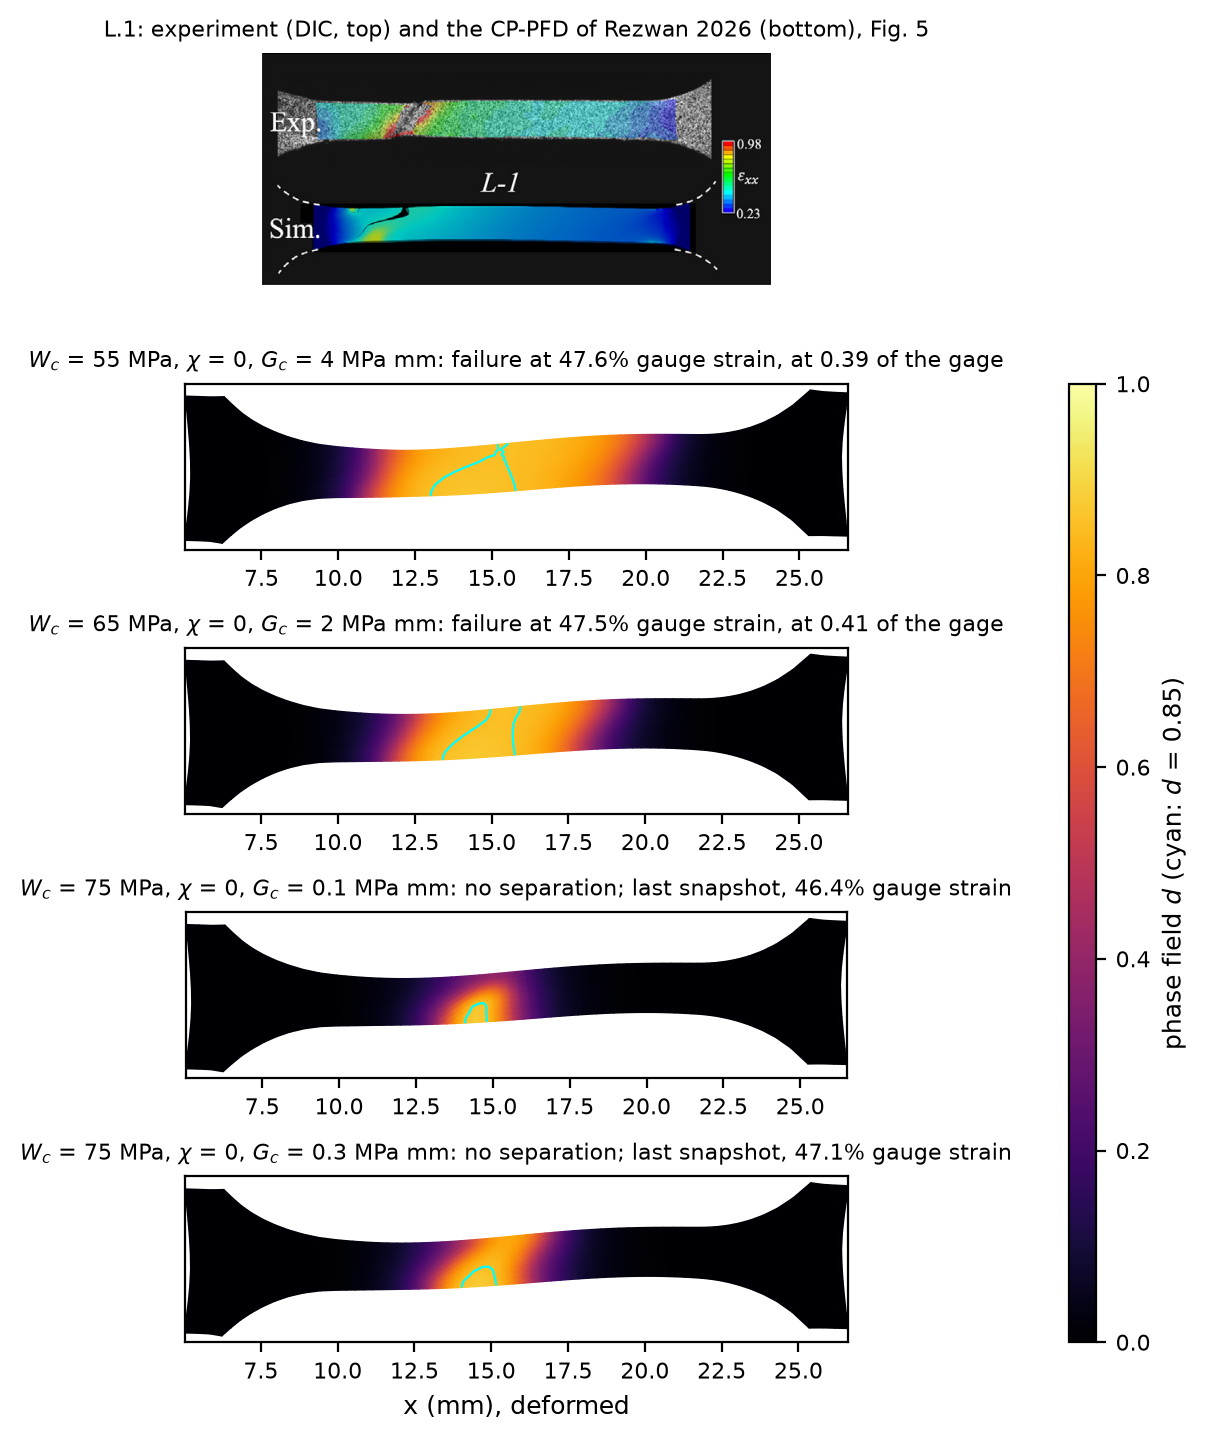
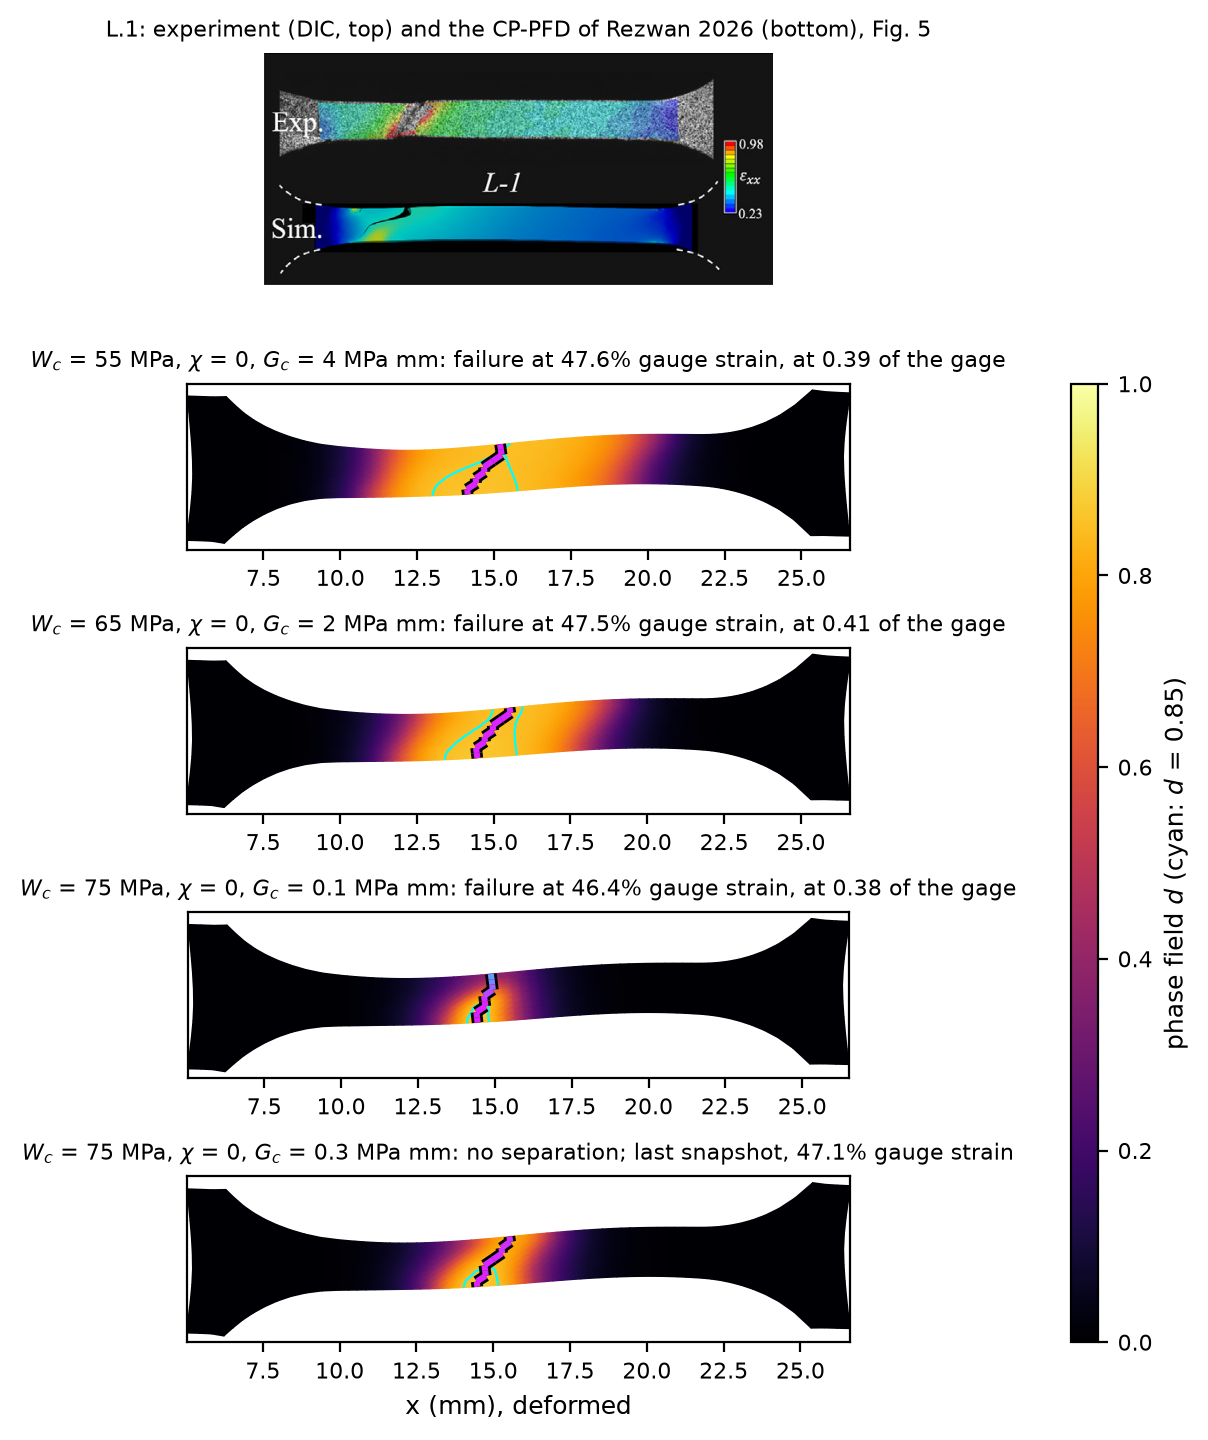
Ni failure definition final (option 1): load drop > 3% with max d >= 0.85 is a full separation (curve failure_mode load_drop_cut, fracture mode); crack line (max-d ridge across the gage width) in the shape figure; chi = 0 fields redrawn; FINDINGS, notebook

diff --git a/scripts/ni_pfd_shape_figures.py b/scripts/ni_pfd_shape_figures.py
@@ -11,6 +11,7 @@ Deck-driven (PINNACLE .i syntax):
     x_range     = '5.0 20.4'           # mm, the gage, fillets and grip ends (undeformed x of the cells)
     crack       = 0.85                 # the d = crack outline (black on E_xx, cyan on d): the fracture zone
     color       = exx                  # exx | damage (the phase field d, 0..1, with the d = crack contour)
+    ridge       = true                 # crack line: at each node row across the width, the x of max d in the gage
     dpi         = 200
   []
   [Runs]
@@ -25,7 +26,11 @@ found separated; fracture.json): plan view of the deformed top face, cells color
 by the Green-Lagrange axial strain E_xx = H_xx + (H_xx^2 + H_yx^2 + H_zx^2) / 2 from
 the displacement gradient H the run records (the measure a DIC code such as Vic-2D
 reports as e_xx), with the fracture zone outlined in black at d = crack (or, with
-color = damage, the phase field d itself with the outline in cyan).
+color = damage, the phase field d itself with the outline in cyan). With ridge = true
+the crack is also drawn as one line across the gage width (author 2026-10-23): for
+every node row across the width, the node of that row with the largest d within the
+gage, joined row to row and colored by that d (so the line carries the maximum of d
+along x at each y; it is the likely fracture path when the field stays below crack).
 """
 from __future__ import annotations
 
@@ -85,6 +90,43 @@ def failure_frame(run: Path) -> tuple[dict, dict, dict]:
         frac = {**frac, "snapshot": frames[-1].name, "last_frame": True}
         return read_vtk(frames[-1]), frac, summ
     return read_vtk(run / "solver" / frac["snapshot"]), frac, summ
+
+
+def ridge(v: dict, f: dict, run: Path) -> tuple[np.ndarray, np.ndarray]:
+    """Deformed (x, y) of the max-d node of each row across the width, and its d.
+
+    Rows are the undeformed y of the top-face nodes within the gage (the dog-bone mesh is a
+    mapped grid: a row keeps its y along the straight gage)."""
+    X0 = v["nodes"]
+    x = X0 + v["point"]["displacement"]
+    d = np.asarray(v["point"]["damage"], dtype=float)
+    cells = np.asarray(v["cells"], dtype=int)
+    top = np.unique(cells[:, 4:8])
+    g0, g1 = _pair(f.get("ridge_x", f.get("gage_x", "8.7 16.7")))
+    sel = top[(X0[top, 0] >= g0) & (X0[top, 0] <= g1)]
+    rows = np.round(X0[sel, 1], 4)
+    pts, vals = [], []
+    for y in np.unique(rows):
+        ids = sel[rows == y]
+        k = ids[np.argmax(d[ids])]
+        pts.append(x[k, :2]); vals.append(d[k])
+    return np.array(pts), np.array(vals)
+
+
+def draw_ridge(ax, v: dict, f: dict, run: Path):
+    from matplotlib.collections import LineCollection
+
+    pts, vals = ridge(v, f, run)
+    if len(pts) < 2:
+        return None
+    segs = np.stack([pts[:-1], pts[1:]], axis=1)
+    # a dark underlay keeps the colored core readable on the jet / inferno fields
+    ax.add_collection(LineCollection(segs, colors="black", linewidths=4.2, zorder=5))
+    lc = LineCollection(segs, cmap="inferno" if _str(f.get("color", "exx")) == "exx" else "cool",
+                        norm=plt.Normalize(0.0, 1.0), linewidths=2.2, zorder=6)
+    lc.set_array(0.5 * (vals[:-1] + vals[1:]))
+    ax.add_collection(lc)
+    return lc
 
 
 def draw_damage(ax, v: dict, f: dict):
@@ -168,12 +210,18 @@ def main(argv):
     ax.set_axis_off()
     ax.set_title(_str(f.get("panel_label", "experiment (Fig. 5)")), fontsize=8)
     pc = None
+    lc = None
     for i, (_, r) in enumerate(runs.items()):
         v, frac, summ = failure_frame(_resolve(_str(r["dir"]), deck))
         a = fig.add_subplot(gs[i + 1, 0])
         pc = draw_run(a, v, f, lo, hi)
+        if _str(f.get("ridge", "false")).lower() == "true":
+            lc = draw_ridge(a, v, f, _resolve(_str(r["dir"]), deck)) or lc
         g = json.loads((_resolve(_str(r["dir"]), deck) / "case.json").read_text())["substitutions"]
-        if frac.get("last_frame"):
+        if frac.get("last_frame") and summ.get("failure_mode") == "load_drop_cut":
+            title = r"%s, $G_c$ = %s MPa mm: failure (load drop) at %.1f%% gauge strain; last snapshot %.1f%%" % (
+                _str(r["label"]), g["GC"], 100 * summ["failure_gauge_strain"], 100 * frac.get("snapshot_strain", summ["final_gauge_strain"]))
+        elif frac.get("last_frame"):
             title = r"%s, $G_c$ = %s MPa mm: no separation; last snapshot, %.1f%% gauge strain" % (
                 _str(r["label"]), g["GC"], 100 * summ["final_gauge_strain"])
         else:
@@ -186,6 +234,11 @@ def main(argv):
     cb = fig.colorbar(pc, cax=cax)
     cb.set_label(r"phase field $d$ (cyan: $d$ = %g)" % float(f.get("crack", 0.85))
                  if _str(f.get("color", "exx")) == "damage" else r"$E_{xx}$ (Green-Lagrange)")
+    if lc is not None and _str(f.get("color", "exx")) == "exx":
+        cax2 = fig.add_axes([cax.get_position().x1 + 0.09, cax.get_position().y0,
+                             0.018, cax.get_position().height])
+        cb2 = fig.colorbar(lc, cax=cax2)
+        cb2.set_label(r"crack line: max $d$ across the gage at each row")
     out = _resolve(_str(f["out"]), deck)
     out.parent.mkdir(parents=True, exist_ok=True)
     fig.savefig(out, bbox_inches="tight")

diff --git a/scripts/ni_specimen.py b/scripts/ni_specimen.py
@@ -301,12 +301,15 @@ def _curve_pfd(sp: dict, deck: Path) -> dict:
             valid[-1]["gauge_strain"] if valid else None)
         mode = "separation"
     elif (valid and len(valid) < len(res) and not died
-          and max(x["max_damage"] for x in res) > float(sp.get("cut_damage", 0.99))):
-        # A sharp crack (W_c > 0) ends the run on a mechanics failure at d -> 1 one step
-        # before the d > 0.85 zone spans the section; that step's damage solve did converge,
-        # so its max d counts (author 2026-10-22: failure at the last converged strain;
-        # ``cut_damage`` sets the max-d condition).
-        sep, sep_strain, mode = valid[-1], valid[-1]["gauge_strain"], "mechanics_failure_cut"
+          and max(x["max_damage"] for x in res) >= float(sp.get("cut_damage", 0.85))
+          and valid[-1]["eng_stress"] < (1.0 - float(sp.get("cut_load_drop", 0.03)))
+          * np.nanmax([x["eng_stress"] for x in valid])):
+        # A sharp crack (W_c > 0) ends the run on a mechanics failure one step before the
+        # d > 0.85 zone spans the section; that step's damage solve did converge, so its max d
+        # counts. Author 2026-10-23 (option 1): a mechanics failure with max d >= 0.85 and the
+        # load down by more than 3% from its peak is a full separation, at the last converged
+        # strain (``cut_damage``, ``cut_load_drop``).
+        sep, sep_strain, mode = valid[-1], valid[-1]["gauge_strain"], "load_drop_cut"
     ok = np.isfinite(s)
     summary = {"steps": len(res), "steps_valid": len(valid), "run_died": died,
                "final_gauge_strain": float(e[-1]) if len(e) else None, "final_grip_strain": valid[-1]["grip_strain"] if valid else None,
@@ -315,7 +318,7 @@ def _curve_pfd(sp: dict, deck: Path) -> dict:
                "initiation_gauge_strain_node": first_node["gauge_strain"] if first_node else None,
                "failure_gauge_strain": sep_strain,   # PINNACLE stop_separation
                "failure_step": sep["step"] if sep else None,
-               "failure_mode": mode,                 # separation | mechanics_failure_cut | None
+               "failure_mode": mode,                 # separation | load_drop_cut | None
                "damage_threshold": float(sp.get("damage_threshold", 0.8)),
                "final_max_damage": valid[-1]["max_damage"] if valid else None,
                "gage_area_mm2": area, "mean_thickness_mm": t_mean,
@@ -380,7 +383,16 @@ def stage_fracture(sp: dict, deck: Path) -> dict:
             cut = np.where(~intact)[0]
             found = (step_of(kf, len(frames)), path, X[cut])
             break
-    res = {"separation_damage": thr, "separated": found is not None}
+    mode = "separation" if found is not None else None
+    if found is None and summ.get("failure_mode") == "load_drop_cut" and frames:
+        # the curve stage's load-drop rule (author 2026-10-23, option 1): the zone is the
+        # d >= threshold nodes of the last snapshot, at the summary's failure step
+        v = read_vtk(frames[-1][1])
+        d = np.asarray(v["point"]["damage"], dtype=float).reshape(-1)
+        cut = np.where(d > thr)[0]
+        if len(cut):
+            found, mode = (int(summ["failure_step"]), frames[-1][1], v["nodes"][cut]), "load_drop_cut"
+    res = {"separation_damage": thr, "separated": found is not None, "mode": mode}
     if found is not None:
         step, path, P = found
         gx = _gage_x(sp, deck)

diff --git a/.claude/FINDINGS.md b/.claude/FINDINGS.md
@@ -511,3 +511,13 @@ NOT derivable from the code: measured facts, decisions, and traps.
 - Author 2026-10-22: W_c = 75 is the shape wanted. Keep the d > 0.85 separation definition for the
   calibration; for the fracture-shape figure the contour level may be softened (deck key `crack`)
   to show the likely fracture shape when d stays below 0.85. Reporting decided after the round.
+
+## 2026-10-23: failure definition final (option 1); crack line presentation (author)
+- A mechanics failure with max d >= 0.85 and the load more than 3% below its peak is a full
+  separation, at the last converged strain (`failure_mode = load_drop_cut`; the fracture stage then
+  takes the zone from the last snapshot's d > 0.85 nodes, `mode = load_drop_cut`). W_c 75 / G_c 0.1
+  (chi 0) fails at 0.464 under it; W_c 75 / G_c 0.3 (load not dropped) and the chi 1 W_c 65 / G_c 8
+  (drop 0.8%) do not. Earlier max d > 0.99 rule superseded.
+- Crack line: one line across the gage width through the max-d node of each node row, colored by
+  that d (`ridge = true`, `ridge_x` the gage); shown with the d = 0.85 outline. Author likes the
+  W_c 75 / G_c 0.1 result.

diff --git a/docs/12_ni_study.md b/docs/12_ni_study.md
@@ -699,3 +699,10 @@ then W_c 75 / G_c 0.1 fails at 0.464, the target. Figures redrawn
 (`pfd_curves_L1_wc_chi0.i`: 55 / 4, 65 / 8 and 2, 75 / 1.2, 0.3, 0.1; shapes: 55 / 4, 65 / 2, 75 / 0.1
 and 0.3; the 75 / 0.1 field is its last snapshot, step 240 at 46.1%, before the last two steps).
 
+Author 2026-10-23: option 1 adopted and final (load drop > 3% with max d >= 0.85 = full
+separation; `failure_mode = load_drop_cut`, `fracture.json` mode); W_c 75 / G_c 0.1 fails at 0.464
+at 0.38 of the gage (18 nodes above 0.85 in its last snapshot, step 240). Crack line added to the
+shape figure (`ridge = true`): the max-d node of each row across the gage width, joined and
+colored by d, over the 0.85 outline; on the chi = 0 runs the line is inclined at roughly 45-60
+deg across the width at 0.38-0.41 of the gage.
+
